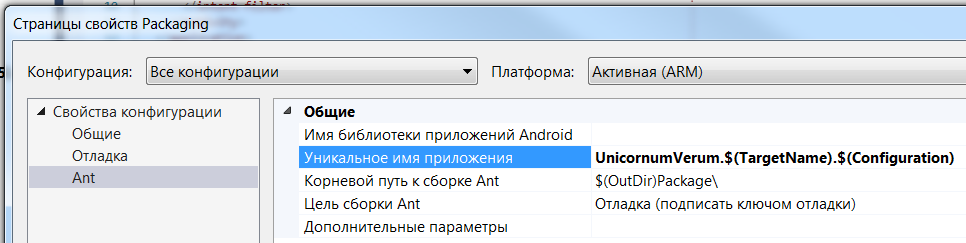
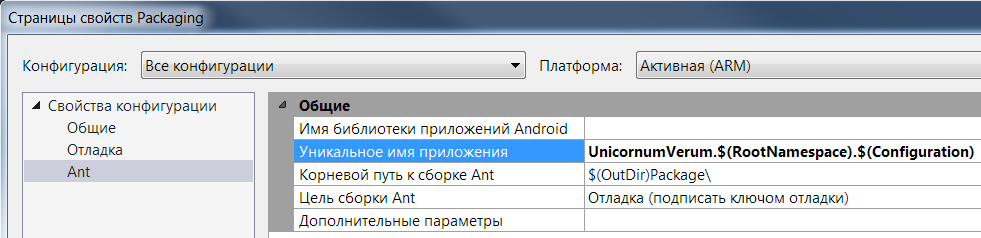
[UnicornumVerum] Обновление сайта.

diff --git a/Main/a00218_source.html b/Main/a00218_source.html
@@ -68,10 +68,10 @@ $(function() {
 <div class="title">Version.hpp</div>  </div>
 </div><!--header-->
 <div class="contents">
-<a href="a00218.html">См. документацию.</a><div class="fragment"><div class="line"><a name="l00001"></a><span class="lineno">    1</span>&#160;</div><div class="line"><a name="l00002"></a><span class="lineno">    2</span>&#160;<span class="preprocessor">#pragma once</span></div><div class="line"><a name="l00003"></a><span class="lineno">    3</span>&#160;</div><div class="line"><a name="l00009"></a><span class="lineno">    9</span>&#160;<span class="preprocessor">#define VERSION 1</span></div><div class="line"><a name="l00010"></a><span class="lineno">   10</span>&#160;</div><div class="line"><a name="l00011"></a><span class="lineno">   11</span>&#160;<span class="preprocessor">#define SUBVERSION 1</span></div><div class="line"><a name="l00012"></a><span class="lineno">   12</span>&#160;</div><div class="line"><a name="l00013"></a><span class="lineno">   13</span>&#160;<span class="preprocessor">#define SUBSUBVERSION 0</span></div><div class="line"><a name="l00014"></a><span class="lineno">   14</span>&#160;</div><div class="line"><a name="l00015"></a><span class="lineno">   15</span>&#160;<span class="comment">// РЈСЃС‚Р°РЅР°РІР»РёРІР°РµС‚СЃСЏ Р°РІС‚РѕРјР°С‚РёС‡РµСЃРєРё</span></div><div class="line"><a name="l00016"></a><span class="lineno">   16</span>&#160;<span class="preprocessor">#define REVISION_SOLUTION 70</span></div><div class="line"><a name="l00017"></a><span class="lineno">   17</span>&#160;</div><div class="line"><a name="l00018"></a><span class="lineno">   18</span>&#160;<span class="comment">// РЈСЃС‚Р°РЅР°РІР»РёРІР°РµС‚СЃСЏ Р°РІС‚РѕРјР°С‚РёС‡РµСЃРєРё</span></div><div class="line"><a name="l00019"></a><span class="lineno">   19</span>&#160;<span class="preprocessor">#define __PLATFORM__ Win32</span></div><div class="line"><a name="l00020"></a><span class="lineno">   20</span>&#160;</div><div class="line"><a name="l00021"></a><span class="lineno">   21</span>&#160;<span class="comment">// РЈСЃС‚Р°РЅР°РІР»РёРІР°РµС‚СЃСЏ Р°РІС‚РѕРјР°С‚РёС‡РµСЃРєРё</span></div><div class="line"><a name="l00022"></a><span class="lineno">   22</span>&#160;<span class="preprocessor">#define TIME &quot;13:01&quot;</span></div><div class="line"><a name="l00023"></a><span class="lineno">   23</span>&#160;</div><div class="line"><a name="l00024"></a><span class="lineno">   24</span>&#160;<span class="comment">// РЈСЃС‚Р°РЅР°РІР»РёРІР°РµС‚СЃСЏ Р°РІС‚РѕРјР°С‚РёС‡РµСЃРєРё</span></div><div class="line"><a name="l00025"></a><span class="lineno">   25</span>&#160;<span class="preprocessor">#define DAY 22</span></div><div class="line"><a name="l00026"></a><span class="lineno">   26</span>&#160;</div><div class="line"><a name="l00027"></a><span class="lineno">   27</span>&#160;<span class="comment">// РЈСЃС‚Р°РЅР°РІР»РёРІР°РµС‚СЃСЏ Р°РІС‚РѕРјР°С‚РёС‡РµСЃРєРё</span></div><div class="line"><a name="l00028"></a><span class="lineno">   28</span>&#160;<span class="preprocessor">#define MONTH РђРІРіСѓСЃС‚</span></div><div class="line"><a name="l00029"></a><span class="lineno">   29</span>&#160;</div><div class="line"><a name="l00030"></a><span class="lineno">   30</span>&#160;<span class="comment">// РЈСЃС‚Р°РЅР°РІР»РёРІР°РµС‚СЃСЏ Р°РІС‚РѕРјР°С‚РёС‡РµСЃРєРё</span></div><div class="line"><a name="l00031"></a><span class="lineno">   31</span>&#160;<span class="preprocessor">#define YEAR 2017</span></div><div class="line"><a name="l00032"></a><span class="lineno">   32</span>&#160;</div><div class="line"><a name="l00033"></a><span class="lineno">   33</span>&#160;<span class="comment">// РўРµРєСѓС‰РёР№ РіРѕРґ СѓСЃС‚Р°РЅР°РІР»РёРІР°РµС‚СЃСЏ Р°РІС‚РѕРјР°С‚РёС‡РµСЃРєРё</span></div><div class="line"><a name="l00034"></a><span class="lineno">   34</span>&#160;<span class="preprocessor">#define __COPYRIGHT_STR__ &quot;В© UnicornumVerum 2016 - 2017 (unicornum.verum@gmail.ru)&quot;</span></div><div class="line"><a name="l00035"></a><span class="lineno">   35</span>&#160;</div><div class="line"><a name="l00036"></a><span class="lineno">   36</span>&#160;<span class="preprocessor">#define __COMPANY_NAME__ &quot;Unknown company&quot;</span></div><div class="line"><a name="l00037"></a><span class="lineno">   37</span>&#160;</div><div class="line"><a name="l00038"></a><span class="lineno">   38</span>&#160;<span class="comment">// РЈСЃС‚Р°РЅР°РІР»РёРІР°РµС‚СЃСЏ Р°РІС‚РѕРјР°С‚РёС‡РµСЃРєРё</span></div><div class="line"><a name="l00039"></a><span class="lineno">   39</span>&#160;<span class="preprocessor">#define __PRODUCT_NAME__ &quot;UnicornumVerum&quot;</span></div><div class="line"><a name="l00040"></a><span class="lineno">   40</span>&#160;</div><div class="line"><a name="l00041"></a><span class="lineno">   41</span>&#160;<span class="preprocessor">#define __APPLICATION_NAME__ &quot;Unknown application&quot;</span></div><div class="line"><a name="l00042"></a><span class="lineno">   42</span>&#160;</div><div class="line"><a name="l00043"></a><span class="lineno">   43</span>&#160;<span class="preprocessor">#define __PRODUCT_DESCRIPTION__ &quot;-     &quot;</span></div><div class="line"><a name="l00044"></a><span class="lineno">   44</span>&#160;</div><div class="line"><a name="l00045"></a><span class="lineno">   45</span>&#160;<span class="preprocessor">#define __FILE_NAME__ &quot;&quot;</span></div></div><!-- fragment --></div><!-- contents -->
+<a href="a00218.html">См. документацию.</a><div class="fragment"><div class="line"><a name="l00001"></a><span class="lineno">    1</span>&#160;</div><div class="line"><a name="l00002"></a><span class="lineno">    2</span>&#160;<span class="preprocessor">#pragma once</span></div><div class="line"><a name="l00003"></a><span class="lineno">    3</span>&#160;</div><div class="line"><a name="l00009"></a><span class="lineno">    9</span>&#160;<span class="preprocessor">#define VERSION 1</span></div><div class="line"><a name="l00010"></a><span class="lineno">   10</span>&#160;</div><div class="line"><a name="l00011"></a><span class="lineno">   11</span>&#160;<span class="preprocessor">#define SUBVERSION 1</span></div><div class="line"><a name="l00012"></a><span class="lineno">   12</span>&#160;</div><div class="line"><a name="l00013"></a><span class="lineno">   13</span>&#160;<span class="preprocessor">#define SUBSUBVERSION 0</span></div><div class="line"><a name="l00014"></a><span class="lineno">   14</span>&#160;</div><div class="line"><a name="l00015"></a><span class="lineno">   15</span>&#160;<span class="comment">// РЈСЃС‚Р°РЅР°РІР»РёРІР°РµС‚СЃСЏ Р°РІС‚РѕРјР°С‚РёС‡РµСЃРєРё</span></div><div class="line"><a name="l00016"></a><span class="lineno">   16</span>&#160;<span class="preprocessor">#define REVISION_SOLUTION 72</span></div><div class="line"><a name="l00017"></a><span class="lineno">   17</span>&#160;</div><div class="line"><a name="l00018"></a><span class="lineno">   18</span>&#160;<span class="comment">// РЈСЃС‚Р°РЅР°РІР»РёРІР°РµС‚СЃСЏ Р°РІС‚РѕРјР°С‚РёС‡РµСЃРєРё</span></div><div class="line"><a name="l00019"></a><span class="lineno">   19</span>&#160;<span class="preprocessor">#define __PLATFORM__ Win32</span></div><div class="line"><a name="l00020"></a><span class="lineno">   20</span>&#160;</div><div class="line"><a name="l00021"></a><span class="lineno">   21</span>&#160;<span class="comment">// РЈСЃС‚Р°РЅР°РІР»РёРІР°РµС‚СЃСЏ Р°РІС‚РѕРјР°С‚РёС‡РµСЃРєРё</span></div><div class="line"><a name="l00022"></a><span class="lineno">   22</span>&#160;<span class="preprocessor">#define TIME &quot;12:34&quot;</span></div><div class="line"><a name="l00023"></a><span class="lineno">   23</span>&#160;</div><div class="line"><a name="l00024"></a><span class="lineno">   24</span>&#160;<span class="comment">// РЈСЃС‚Р°РЅР°РІР»РёРІР°РµС‚СЃСЏ Р°РІС‚РѕРјР°С‚РёС‡РµСЃРєРё</span></div><div class="line"><a name="l00025"></a><span class="lineno">   25</span>&#160;<span class="preprocessor">#define DAY 16</span></div><div class="line"><a name="l00026"></a><span class="lineno">   26</span>&#160;</div><div class="line"><a name="l00027"></a><span class="lineno">   27</span>&#160;<span class="comment">// РЈСЃС‚Р°РЅР°РІР»РёРІР°РµС‚СЃСЏ Р°РІС‚РѕРјР°С‚РёС‡РµСЃРєРё</span></div><div class="line"><a name="l00028"></a><span class="lineno">   28</span>&#160;<span class="preprocessor">#define MONTH РЎРµРЅС‚СЏР±СЂСЊ</span></div><div class="line"><a name="l00029"></a><span class="lineno">   29</span>&#160;</div><div class="line"><a name="l00030"></a><span class="lineno">   30</span>&#160;<span class="comment">// РЈСЃС‚Р°РЅР°РІР»РёРІР°РµС‚СЃСЏ Р°РІС‚РѕРјР°С‚РёС‡РµСЃРєРё</span></div><div class="line"><a name="l00031"></a><span class="lineno">   31</span>&#160;<span class="preprocessor">#define YEAR 2017</span></div><div class="line"><a name="l00032"></a><span class="lineno">   32</span>&#160;</div><div class="line"><a name="l00033"></a><span class="lineno">   33</span>&#160;<span class="comment">// РўРµРєСѓС‰РёР№ РіРѕРґ СѓСЃС‚Р°РЅР°РІР»РёРІР°РµС‚СЃСЏ Р°РІС‚РѕРјР°С‚РёС‡РµСЃРєРё</span></div><div class="line"><a name="l00034"></a><span class="lineno">   34</span>&#160;<span class="preprocessor">#define __COPYRIGHT_STR__ &quot;В© UnicornumVerum 2016 - 2017 (unicornum.verum@gmail.ru)&quot;</span></div><div class="line"><a name="l00035"></a><span class="lineno">   35</span>&#160;</div><div class="line"><a name="l00036"></a><span class="lineno">   36</span>&#160;<span class="preprocessor">#define __COMPANY_NAME__ &quot;Unknown company&quot;</span></div><div class="line"><a name="l00037"></a><span class="lineno">   37</span>&#160;</div><div class="line"><a name="l00038"></a><span class="lineno">   38</span>&#160;<span class="comment">// РЈСЃС‚Р°РЅР°РІР»РёРІР°РµС‚СЃСЏ Р°РІС‚РѕРјР°С‚РёС‡РµСЃРєРё</span></div><div class="line"><a name="l00039"></a><span class="lineno">   39</span>&#160;<span class="preprocessor">#define __PRODUCT_NAME__ &quot;UnicornumVerum&quot;</span></div><div class="line"><a name="l00040"></a><span class="lineno">   40</span>&#160;</div><div class="line"><a name="l00041"></a><span class="lineno">   41</span>&#160;<span class="preprocessor">#define __APPLICATION_NAME__ &quot;Unknown application&quot;</span></div><div class="line"><a name="l00042"></a><span class="lineno">   42</span>&#160;</div><div class="line"><a name="l00043"></a><span class="lineno">   43</span>&#160;<span class="preprocessor">#define __PRODUCT_DESCRIPTION__ &quot;-     &quot;</span></div><div class="line"><a name="l00044"></a><span class="lineno">   44</span>&#160;</div><div class="line"><a name="l00045"></a><span class="lineno">   45</span>&#160;<span class="preprocessor">#define __FILE_NAME__ &quot;&quot;</span></div></div><!-- fragment --></div><!-- contents -->
 <!-- start footer part -->
 <hr class="footer"/><address class="footer"><small>
-Документация по UnicornumVerum. Последние изменения: Вт 22 Авг 2017 13:01:44. Создано системой &#160;<a href="http://www.doxygen.org/index.html">
+Документация по UnicornumVerum. Последние изменения: Сб 16 Сен 2017 12:34:47. Создано системой &#160;<a href="http://www.doxygen.org/index.html">
 <img class="footer" src="doxygen.png" alt="doxygen"/>
 </a> 1.8.13
 </small></address>

diff --git a/Main/a00228.html b/Main/a00228.html
@@ -81,16 +81,21 @@ $(function() {
 <ul>
 <li>В AndroidManifest.xml заменить короткое имя запускаемого Activity на полное:</li>
 </ul>
-<div class="fragment"><div class="line">&lt;activity android:name=<span class="stringliteral">&quot;com.PackageName.ActivityName&quot;</span> ...</div></div><!-- fragment --><p>где com.PackageName - это имя заданное в java файле как</p>
-<div class="fragment"><div class="line"><span class="keyword">package </span>com.PackageName;</div></div><!-- fragment --><p> , а ActivityName - имя главного класса Activity, объект которого создается при старте программы, т.е.</p>
-<div class="fragment"><div class="line"><span class="keyword">public</span> <span class="keyword">class </span>ActivityName <span class="keyword">extends</span> NativeActivity</div><div class="line">{</div><div class="line">  ...</div></div><!-- fragment --><h3>Различные имена приложения для различных конфигураций</h3>
-<p>В AndroidManifest.xml изменить</p>
-<div class="fragment"><div class="line">&lt;application android:label=<span class="stringliteral">&quot;@string/$(ApplicationName)&quot;</span> ... &gt;</div><div class="line">  &lt;activity android:label=<span class="stringliteral">&quot;@string/$(ApplicationName)&quot;</span> ... &gt;</div><div class="line">    ...</div></div><!-- fragment --><p>В string.xml</p>
-<div class="fragment"><div class="line">&lt;resources&gt;</div><div class="line">  &lt;<span class="keywordtype">string</span> name=<span class="stringliteral">&quot;UnicornumVerum.Example.Debug&quot;</span>&gt;Example (debug)&lt;/<span class="keywordtype">string</span>&gt;</div><div class="line">  &lt;<span class="keywordtype">string</span> name=<span class="stringliteral">&quot;UnicornumVerum.Example.Release&quot;</span>&gt;Example&lt;/<span class="keywordtype">string</span>&gt;</div><div class="line">  ...</div></div><!-- fragment --><h3>Запуск приложения в Launcher'e</h3>
-<div class="fragment"><div class="line"><span class="keyword">set</span> PACK_NAME=Example</div><div class="line">  </div><div class="line"><span class="keyword">set</span> RUN_ADB=$(ANDROID_SDK_ROOT)\platform-tools\adb.exe</div><div class="line">  </div><div class="line">%RUN_ADB% install -r $(SolutionDir)$(Configuration)\%PACK_NAME%.apk</div><div class="line">%RUN_ADB% shell am start -n com.UnicornumVerum.%PACK_NAME%.$(Configuration)/com.%PACK_NAME%.%PACK_NAME%</div></div><!-- fragment --> </div></div><!-- contents -->
+<div class="fragment"><div class="line">&lt;activity android:name=<span class="stringliteral">&quot;com.PackageName.Example&quot;</span> ...</div></div><!-- fragment --><p>где <b>com.PackageName</b> - это имя заданное в java файле как</p>
+<div class="fragment"><div class="line"><span class="keyword">package </span>com.PackageName;</div></div><!-- fragment --><p> , а <b>Example</b> - имя главного класса Activity, объект которого создается при старте программы, т.е.</p>
+<div class="fragment"><div class="line"><span class="keyword">public</span> <span class="keyword">class </span>Example <span class="keyword">extends</span> NativeActivity</div><div class="line">{</div><div class="line">  ...</div></div><!-- fragment --><h3>Различные имена приложения для различных конфигураций</h3>
+<ul>
+<li>Добавить в решение проект Externals/Tools/Version (который генерирует xml-файл, содержащий название/версию текущего решения).</li>
+<li>Один из проектов, от которого зависит проект <b>Packaging</b> должен зависеть от проекта Version и запускать его в качестве события после сборки проекта.</li>
+<li>Добавить в проект <b>Packaging</b> генерируемый файл res/values/version.auto.xml.</li>
+<li>В файле AndroidManifest.xml изменить (первая строка - название программы в Диспетчере задач, второе - название, отображаемое под иконкой программы):</li>
+</ul>
+<div class="fragment"><div class="line">&lt;application android:label=<span class="stringliteral">&quot;@string/ApplicationName&quot;</span> ... &gt;</div><div class="line">  &lt;activity android:label=<span class="stringliteral">&quot;@string/ApplicationName&quot;</span> ... &gt;</div><div class="line">    ...</div></div><!-- fragment --><h3>Запуск приложения в Launcher'e</h3>
+<p>В качестве события после сборки проекта добавить скрипт:</p>
+<div class="fragment"><div class="line"><span class="keyword">set</span> ROOT_NAMESPACE=Example</div><div class="line"><span class="keyword">set</span> _ACTIVITY_NAME=com.PackageName.Example</div><div class="line"><span class="keyword">set</span> APPLICATION_NAME=UnicornumVerum.%ROOT_NAMESPACE%.$(Configuration)</div><div class="line"><span class="keyword">set</span> PACKAGE=com.%APPLICATION_NAME%</div><div class="line">  </div><div class="line"><span class="keyword">set</span> RUN_ADB=$(ANDROID_SDK_ROOT)\platform-tools\adb.exe</div><div class="line">  </div><div class="line">%RUN_ADB% install -r $(SolutionDir)$(Configuration)\%ROOT_NAMESPACE%.apk</div><div class="line">%RUN_ADB% shell am start -n %PACKAGE%/%_ACTIVITY_NAME%</div></div><!-- fragment --> </div></div><!-- contents -->
 <!-- start footer part -->
 <hr class="footer"/><address class="footer"><small>
-Документация по UnicornumVerum. Последние изменения: Вт 22 Авг 2017 13:01:44. Создано системой &#160;<a href="http://www.doxygen.org/index.html">
+Документация по UnicornumVerum. Последние изменения: Сб 16 Сен 2017 12:34:47. Создано системой &#160;<a href="http://www.doxygen.org/index.html">
 <img class="footer" src="doxygen.png" alt="doxygen"/>
 </a> 1.8.13
 </small></address>

diff --git a/Main/a00011_source.html b/Main/a00011_source.html
@@ -71,7 +71,7 @@ $(function() {
 <div class="fragment"><div class="line"><a name="l00001"></a><span class="lineno">    1</span>&#160;</div><div class="line"><a name="l00002"></a><span class="lineno">    2</span>&#160;<span class="comment">// ****************************** ВНИМАНИЕ !!! ****************************** //</span></div><div class="line"><a name="l00003"></a><span class="lineno">    3</span>&#160;<span class="comment">// ***************** ЭТО АВТОМАТИЧЕСКИ СГЕНЕРИРОВАННЫЙ ФАЙЛ ***************** //</span></div><div class="line"><a name="l00004"></a><span class="lineno">    4</span>&#160;<span class="comment">// ******************* ВСЕ РУЧНЫЕ ИЗМЕНЕНИЯ БУДУТ УТЕРЯНЫ ******************* //</span></div><div class="line"><a name="l00005"></a><span class="lineno">    5</span>&#160;<span class="comment">// ****************************** ВНИМАНИЕ !!! ****************************** //</span></div><div class="line"><a name="l00006"></a><span class="lineno">    6</span>&#160;</div></div><!-- fragment --></div><!-- contents -->
 <!-- start footer part -->
 <hr class="footer"/><address class="footer"><small>
-Документация по UnicornumVerum. Последние изменения: Вт 22 Авг 2017 13:01:44. Создано системой &#160;<a href="http://www.doxygen.org/index.html">
+Документация по UnicornumVerum. Последние изменения: Сб 16 Сен 2017 12:34:47. Создано системой &#160;<a href="http://www.doxygen.org/index.html">
 <img class="footer" src="doxygen.png" alt="doxygen"/>
 </a> 1.8.13
 </small></address>

diff --git a/Main/a00226.html b/Main/a00226.html
@@ -67,25 +67,10 @@ $(function() {
 <div class="textblock"><p>todo</p>
 <p>bug</p>
 <h1>Список задач всех проектов решения </h1>
-<h2>Список задач проекта Main </h2>
-<table frame="void" border="1" bordercolor="#FFFFFF" cellpadding="5" cellspacing="0" width="98%">
-<tr>
-<td width="1px"><div class="image">
-<img src=".\Solution\Externals\Externals\Utilities\Doxygen\TaskIcons\Orange.png" alt="Orange.png"/>
-</div>
- </td><td bgcolor="#C0FFC0">Релизы.  </td></tr>
-</table>
-<table frame="void" border="1" bordercolor="#FFFFFF" cellpadding="5" cellspacing="0" width="98%">
-<tr>
-<td width="1px"><div class="image">
-<img src=".\Solution\Externals\Externals\Utilities\Doxygen\TaskIcons\Orange.png" alt="Orange.png"/>
-</div>
- </td><td bgcolor="#FFFFFF">Документация.  </td></tr>
-</table>
 </div></div><!-- contents -->
 <!-- start footer part -->
 <hr class="footer"/><address class="footer"><small>
-Документация по UnicornumVerum. Последние изменения: Вт 22 Авг 2017 13:01:44. Создано системой &#160;<a href="http://www.doxygen.org/index.html">
+Документация по UnicornumVerum. Последние изменения: Сб 16 Сен 2017 12:34:47. Создано системой &#160;<a href="http://www.doxygen.org/index.html">
 <img class="footer" src="doxygen.png" alt="doxygen"/>
 </a> 1.8.13
 </small></address>

diff --git a/Main/a00224.html b/Main/a00224.html
@@ -75,6 +75,10 @@ $(function() {
 </table>
 <table frame="void" border="1" bordercolor="#FFFFFF" cellpadding="5" cellspacing="0" width="98%">
 <tr>
+<td width="10px"></td><td bgcolor="#B8CCE4" width="125px" align="center">16.09.2017 12:33  </td><td bgcolor="#C0FFC0">Исправление описания запуска Android приложения.  </td></tr>
+</table>
+<table frame="void" border="1" bordercolor="#FFFFFF" cellpadding="5" cellspacing="0" width="98%">
+<tr>
 <td width="10px"></td><td bgcolor="#B8CCE4" width="125px" align="center">22.08.2017 12:58  </td><td bgcolor="#C0FFC0">Исправлена ссылка на Externals.  </td></tr>
 </table>
 <table frame="void" border="1" bordercolor="#FFFFFF" cellpadding="5" cellspacing="0" width="98%">
@@ -282,7 +286,7 @@ $(function() {
 </div></div><!-- contents -->
 <!-- start footer part -->
 <hr class="footer"/><address class="footer"><small>
-Документация по UnicornumVerum. Последние изменения: Вт 22 Авг 2017 13:01:44. Создано системой &#160;<a href="http://www.doxygen.org/index.html">
+Документация по UnicornumVerum. Последние изменения: Сб 16 Сен 2017 12:34:47. Создано системой &#160;<a href="http://www.doxygen.org/index.html">
 <img class="footer" src="doxygen.png" alt="doxygen"/>
 </a> 1.8.13
 </small></address>

diff --git a/Main/a00225.html b/Main/a00225.html
@@ -69,11 +69,11 @@ $(function() {
 </div><!--header-->
 <div class="contents">
 <div class="textblock"><h1>Общая информация </h1>
-<p>Общее время работы над решением: 19 ч. 42 мин. </p>
+<p>Общее время работы над решением: 20 ч. 15 мин. </p>
 </div></div><!-- contents -->
 <!-- start footer part -->
 <hr class="footer"/><address class="footer"><small>
-Документация по UnicornumVerum. Последние изменения: Вт 22 Авг 2017 13:01:44. Создано системой &#160;<a href="http://www.doxygen.org/index.html">
+Документация по UnicornumVerum. Последние изменения: Сб 16 Сен 2017 12:34:47. Создано системой &#160;<a href="http://www.doxygen.org/index.html">
 <img class="footer" src="doxygen.png" alt="doxygen"/>
 </a> 1.8.13
 </small></address>

diff --git a/Main/a00005_source.html b/Main/a00005_source.html
@@ -71,7 +71,7 @@ $(function() {
 <div class="fragment"><div class="line"><a name="l00001"></a><span class="lineno">    1</span>&#160;</div></div><!-- fragment --></div><!-- contents -->
 <!-- start footer part -->
 <hr class="footer"/><address class="footer"><small>
-Документация по UnicornumVerum. Последние изменения: Вт 22 Авг 2017 13:01:44. Создано системой &#160;<a href="http://www.doxygen.org/index.html">
+Документация по UnicornumVerum. Последние изменения: Сб 16 Сен 2017 12:34:47. Создано системой &#160;<a href="http://www.doxygen.org/index.html">
 <img class="footer" src="doxygen.png" alt="doxygen"/>
 </a> 1.8.13
 </small></address>

diff --git a/Main/a00017_source.html b/Main/a00017_source.html
@@ -71,7 +71,7 @@ $(function() {
 <div class="fragment"><div class="line"><a name="l00001"></a><span class="lineno">    1</span>&#160;</div></div><!-- fragment --></div><!-- contents -->
 <!-- start footer part -->
 <hr class="footer"/><address class="footer"><small>
-Документация по UnicornumVerum. Последние изменения: Вт 22 Авг 2017 13:01:44. Создано системой &#160;<a href="http://www.doxygen.org/index.html">
+Документация по UnicornumVerum. Последние изменения: Сб 16 Сен 2017 12:34:47. Создано системой &#160;<a href="http://www.doxygen.org/index.html">
 <img class="footer" src="doxygen.png" alt="doxygen"/>
 </a> 1.8.13
 </small></address>

diff --git a/Main/a00023_source.html b/Main/a00023_source.html
@@ -71,7 +71,7 @@ $(function() {
 <div class="fragment"><div class="line"><a name="l00001"></a><span class="lineno">    1</span>&#160;</div></div><!-- fragment --></div><!-- contents -->
 <!-- start footer part -->
 <hr class="footer"/><address class="footer"><small>
-Документация по UnicornumVerum. Последние изменения: Вт 22 Авг 2017 13:01:44. Создано системой &#160;<a href="http://www.doxygen.org/index.html">
+Документация по UnicornumVerum. Последние изменения: Сб 16 Сен 2017 12:34:47. Создано системой &#160;<a href="http://www.doxygen.org/index.html">
 <img class="footer" src="doxygen.png" alt="doxygen"/>
 </a> 1.8.13
 </small></address>

diff --git a/Main/a00032_source.html b/Main/a00032_source.html
@@ -71,7 +71,7 @@ $(function() {
 <div class="fragment"><div class="line"><a name="l00001"></a><span class="lineno">    1</span>&#160;</div></div><!-- fragment --></div><!-- contents -->
 <!-- start footer part -->
 <hr class="footer"/><address class="footer"><small>
-Документация по UnicornumVerum. Последние изменения: Вт 22 Авг 2017 13:01:44. Создано системой &#160;<a href="http://www.doxygen.org/index.html">
+Документация по UnicornumVerum. Последние изменения: Сб 16 Сен 2017 12:34:47. Создано системой &#160;<a href="http://www.doxygen.org/index.html">
 <img class="footer" src="doxygen.png" alt="doxygen"/>
 </a> 1.8.13
 </small></address>

diff --git a/Main/a00038_source.html b/Main/a00038_source.html
@@ -71,7 +71,7 @@ $(function() {
 <div class="fragment"><div class="line"><a name="l00001"></a><span class="lineno">    1</span>&#160;</div></div><!-- fragment --></div><!-- contents -->
 <!-- start footer part -->
 <hr class="footer"/><address class="footer"><small>
-Документация по UnicornumVerum. Последние изменения: Вт 22 Авг 2017 13:01:44. Создано системой &#160;<a href="http://www.doxygen.org/index.html">
+Документация по UnicornumVerum. Последние изменения: Сб 16 Сен 2017 12:34:47. Создано системой &#160;<a href="http://www.doxygen.org/index.html">
 <img class="footer" src="doxygen.png" alt="doxygen"/>
 </a> 1.8.13
 </small></address>

diff --git a/Main/a00179_source.html b/Main/a00179_source.html
@@ -71,7 +71,7 @@ $(function() {
 <div class="fragment"><div class="line"><a name="l00001"></a><span class="lineno">    1</span>&#160;</div></div><!-- fragment --></div><!-- contents -->
 <!-- start footer part -->
 <hr class="footer"/><address class="footer"><small>
-Документация по UnicornumVerum. Последние изменения: Вт 22 Авг 2017 13:01:44. Создано системой &#160;<a href="http://www.doxygen.org/index.html">
+Документация по UnicornumVerum. Последние изменения: Сб 16 Сен 2017 12:34:47. Создано системой &#160;<a href="http://www.doxygen.org/index.html">
 <img class="footer" src="doxygen.png" alt="doxygen"/>
 </a> 1.8.13
 </small></address>
